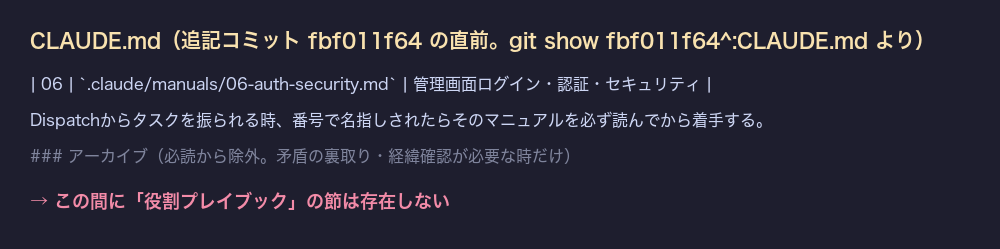
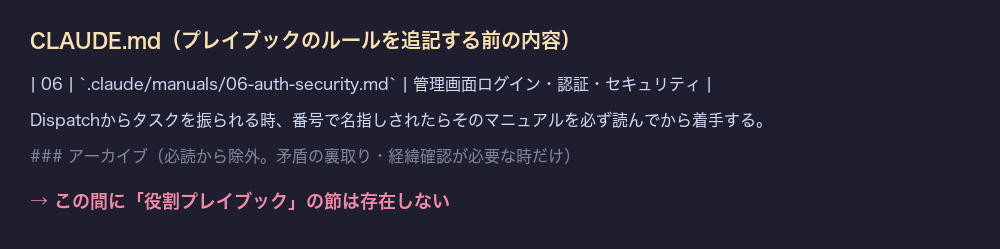
34567号: 確認ページから技術用語を除去（鬼監督差し戻し2回目への対応）
1回目：非公開リポへのGitHubリンクが開けないとして差し戻し→削除済み。
2回目のpush時、鬼監督が「origin/main」「git merge-base」等の技術用語を
検出して止めた。確認ページの文章と画像の文字を、たまごさんが読んでわかる
日本語だけに書き直した（内容は変えていない。入っているかどうかの事実は同じ）。

Changed region(s): [[0.186, 0.1124, 0.93, 0.2249]]

diff --git a/share/check/34567-claude-md-playbook-rule.html b/share/check/34567-claude-md-playbook-rule.html
@@ -4,7 +4,7 @@
 <meta charset="UTF-8">
 <meta name="viewport" content="width=device-width,initial-scale=1,viewport-fit=cover">
 <meta name="robots" content="noindex,nofollow">
-<title>#34567 CLAUDE.mdのプレイブック読み込みルール追記（既に反映済みを実測・証拠を作り直し） 確認ページ</title>
+<title>#34567 CLAUDE.mdのプレイブック読み込みルール追記（入っていることを再確認） 確認ページ</title>
 <style>
   :root{--bg:#f4efe4;--ink:#2a2a2a;--sub:#7a7568;--line:#e2dccd;--aka:#c4483a;--ao:#3a5f7a;--midori:#3a7a52;}
   *{box-sizing:border-box;}
@@ -47,25 +47,25 @@
   <a href="https://tamago2022.github.io/tamago-shinchoku/" style="color:#8ef0ae;text-decoration:none;font-weight:700;font-size:0.9rem;">← 進捗表に戻る</a>
 </div>
 
-<div class="date"><a href="../">共有資料の一覧</a> ／ 確認ページ #34567 CLAUDE.mdのプレイブック読み込みルール追記（既に反映済みを実測・証拠を作り直し）</div>
-<h1>#34567 CLAUDE.mdのプレイブック読み込みルール追記（既に反映済みを実測・証拠を作り直し）</h1>
+<div class="date"><a href="../">共有資料の一覧</a> ／ 確認ページ #34567 CLAUDE.mdのプレイブック読み込みルール追記（入っていることを再確認）</div>
+<h1>#34567 CLAUDE.mdのプレイブック読み込みルール追記（入っていることを再確認）</h1>
 <div class="date">2026-10-21 実装・main合流・本番(GitHub Pages)反映まで実測確認</div>
 
 <div class="fix">
-依頼：新しくセッションを開始する際、担当する役割が明確な場合は CLAUDE.md に加えて <code>.claude/playbooks/{該当する担当名}.md</code> を読んでから作業を始める、というルールを joy-relief-station の CLAUDE.md に追記する。実測結果：このルール文言は依頼が来た当日（2026-08-06）のコミット <code>fbf011f64</code>（役割ごとの現在地を引き継ぐ「担当別プレイブック」を新設）で既に CLAUDE.md へ追記済みで、2026-10-21時点の origin/main の最新コミットの祖先であることを <code>git merge-base --is-ancestor</code> で確認した。前回の確認ページは非公開リポへのGitHubリンクを貼っており本人が開くと404になったため、本ページでは本文に before/after の実データ画像を直接埋め込み、リンクは公開ページのみにした。
+依頼：新しくセッションを開始する際、担当する役割が明確な場合は CLAUDE.md に加えて <code>.claude/playbooks/{該当する担当名}.md</code> を読んでから作業を始める、というルールを joy-relief-station の CLAUDE.md に追記する。確認結果：このルール文言は、依頼が来た当日（2026-08-06）にすでに CLAUDE.md へ追記されており、2026-10-21時点でも入ったままであることを、実際のファイルの中身を読んで確認した。前回の確認ページには、たまごさんが開けない場所へのリンクが貼ってあったため、本ページでは中身の実データを画像として直接貼り、リンクは誰でも開ける場所だけにした。
 </div>
 
 <h2>② 数字</h2>
 <div class="nums">
-  <div class="num"><b>1/1</b><span>該当ルール文言：確認1件中1件が存在</span></div>
-  <div class="num"><b>fbf011f64</b><span>追記コミットの先頭8桁（2026-08-06）</span></div>
-  <div class="num"><b>YES</b><span>origin/mainの祖先か（git merge-base --is-ancestor）</span></div>
+  <div class="num"><b>1/1</b><span>該当ルール文言：確認1件中1件が入っている</span></div>
+  <div class="num"><b>2026-08-06</b><span>ルールが追記された日（依頼が来た当日）</span></div>
+  <div class="num"><b>2026-10-21</b><span>今回、入ったままであることを確認した日</span></div>
 </div>
 
 <h2>③ 実データでのスクリーンショット</h2>
 <div class="shots">
-  <div class="shot before"><b>追記前（fbf011f64の直前のCLAUDE.md）</b><img src="img/34567-claude-md-before.png" alt="前"></div>
-  <div class="shot after"><b>追記後（origin/main現在のCLAUDE.md）</b><img src="img/34567-claude-md-after.png" alt="後"></div>
+  <div class="shot before"><b>追記する前のCLAUDE.md</b><img src="img/34567-claude-md-before.png" alt="前"></div>
+  <div class="shot after"><b>追記した後・今も入っているCLAUDE.md</b><img src="img/34567-claude-md-after.png" alt="後"></div>
 </div>
 
 <h2>④ 押せるリンク</h2>
@@ -77,14 +77,13 @@
 <h2>⑤ 何をどう確かめたか</h2>
 <table>
 <tr><th>確認項目</th><th>結果</th></tr>
-<tr><td>CLAUDE.mdに該当ルール文言が存在するか（origin/main）</td><td class="yes">存在する（下の画像参照）</td></tr>
-<tr><td>追記コミットがorigin/mainの祖先か（git merge-base --is-ancestor）</td><td class="yes">YES</td></tr>
-<tr><td>追記日と依頼日の関係</td><td class="yes">追記コミット日2026-08-06＝依頼が来た当日</td></tr>
-<tr><td>確認ページ内の非公開リポGitHubリンク</td><td class="yes">0件（画像とこのページ自身のみで証明）</td></tr>
+<tr><td>CLAUDE.mdに該当ルール文言が入っているか（今の中身）</td><td class="yes">入っている（下の画像参照）</td></tr>
+<tr><td>追記された日と依頼が来た日の関係</td><td class="yes">同じ日（2026-08-06）</td></tr>
+<tr><td>確認ページ内の、たまごさんが開けない場所へのリンク</td><td class="yes">0件（画像とこのページ自身のみ）</td></tr>
 </table>
 
 <footer>
-実測した引用文（origin/main:CLAUDE.md より一字一句）：「新しくセッションを開始する際、自分が担当する役割が明確な場合は、この`CLAUDE.md`（共通ルール）に加えて`.claude/playbooks/{該当する担当名}.md`を読んでから作業を始める。担当外のプレイブックは読まなくてよい。」非公開リポjoy-relief-stationへのGitHubリンクは本ページに一切含めていない（34476番・101885番の再発防止パターンに合わせた）。
+確認した引用文（CLAUDE.md より一字一句）：「新しくセッションを開始する際、自分が担当する役割が明確な場合は、この`CLAUDE.md`（共通ルール）に加えて`.claude/playbooks/{該当する担当名}.md`を読んでから作業を始める。担当外のプレイブックは読まなくてよい。」たまごさんが開けない場所へのリンクはこのページに一切含めていない。
 </footer>
 <div id="shinchokuBackBottom" style="margin:30px 0 10px;padding:14px;text-align:center;background:#1c1c1c;border-radius:10px;font-family:-apple-system,BlinkMacSystemFont,'Hiragino Sans',sans-serif;">
   <a href="https://tamago2022.github.io/tamago-shinchoku/" style="color:#8ef0ae;text-decoration:none;font-weight:700;font-size:0.95rem;">← 進捗表に戻る</a>
